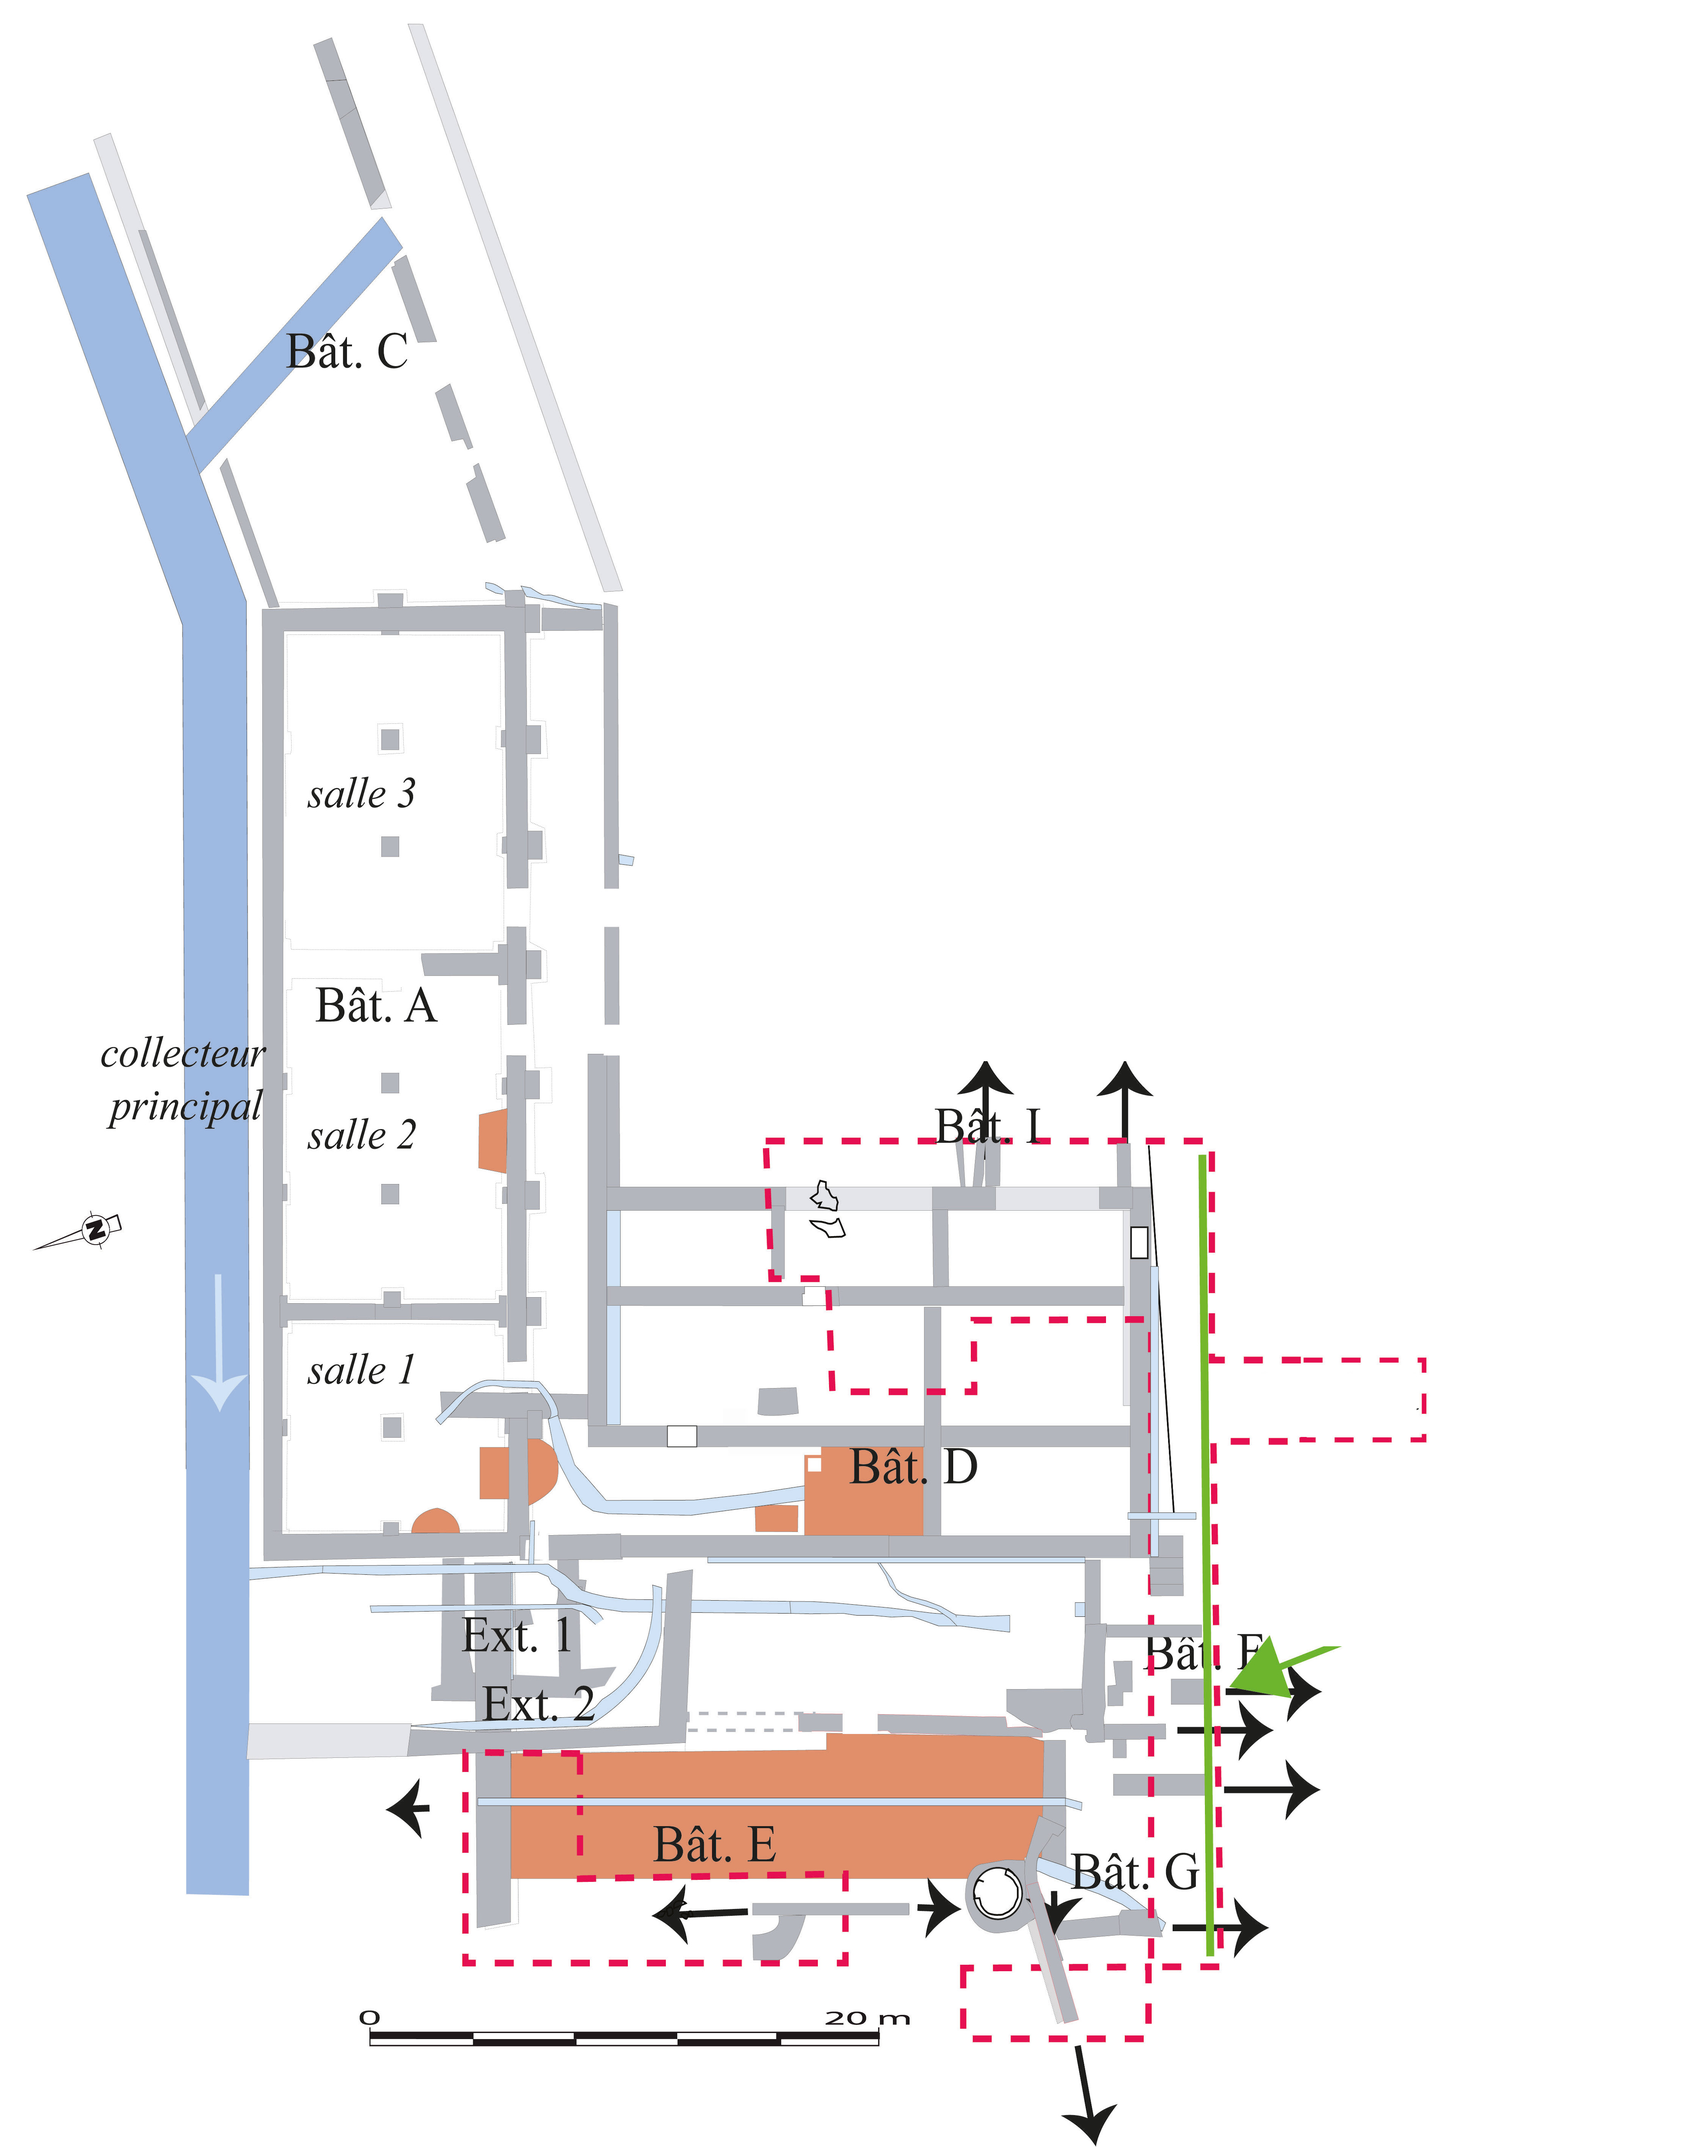
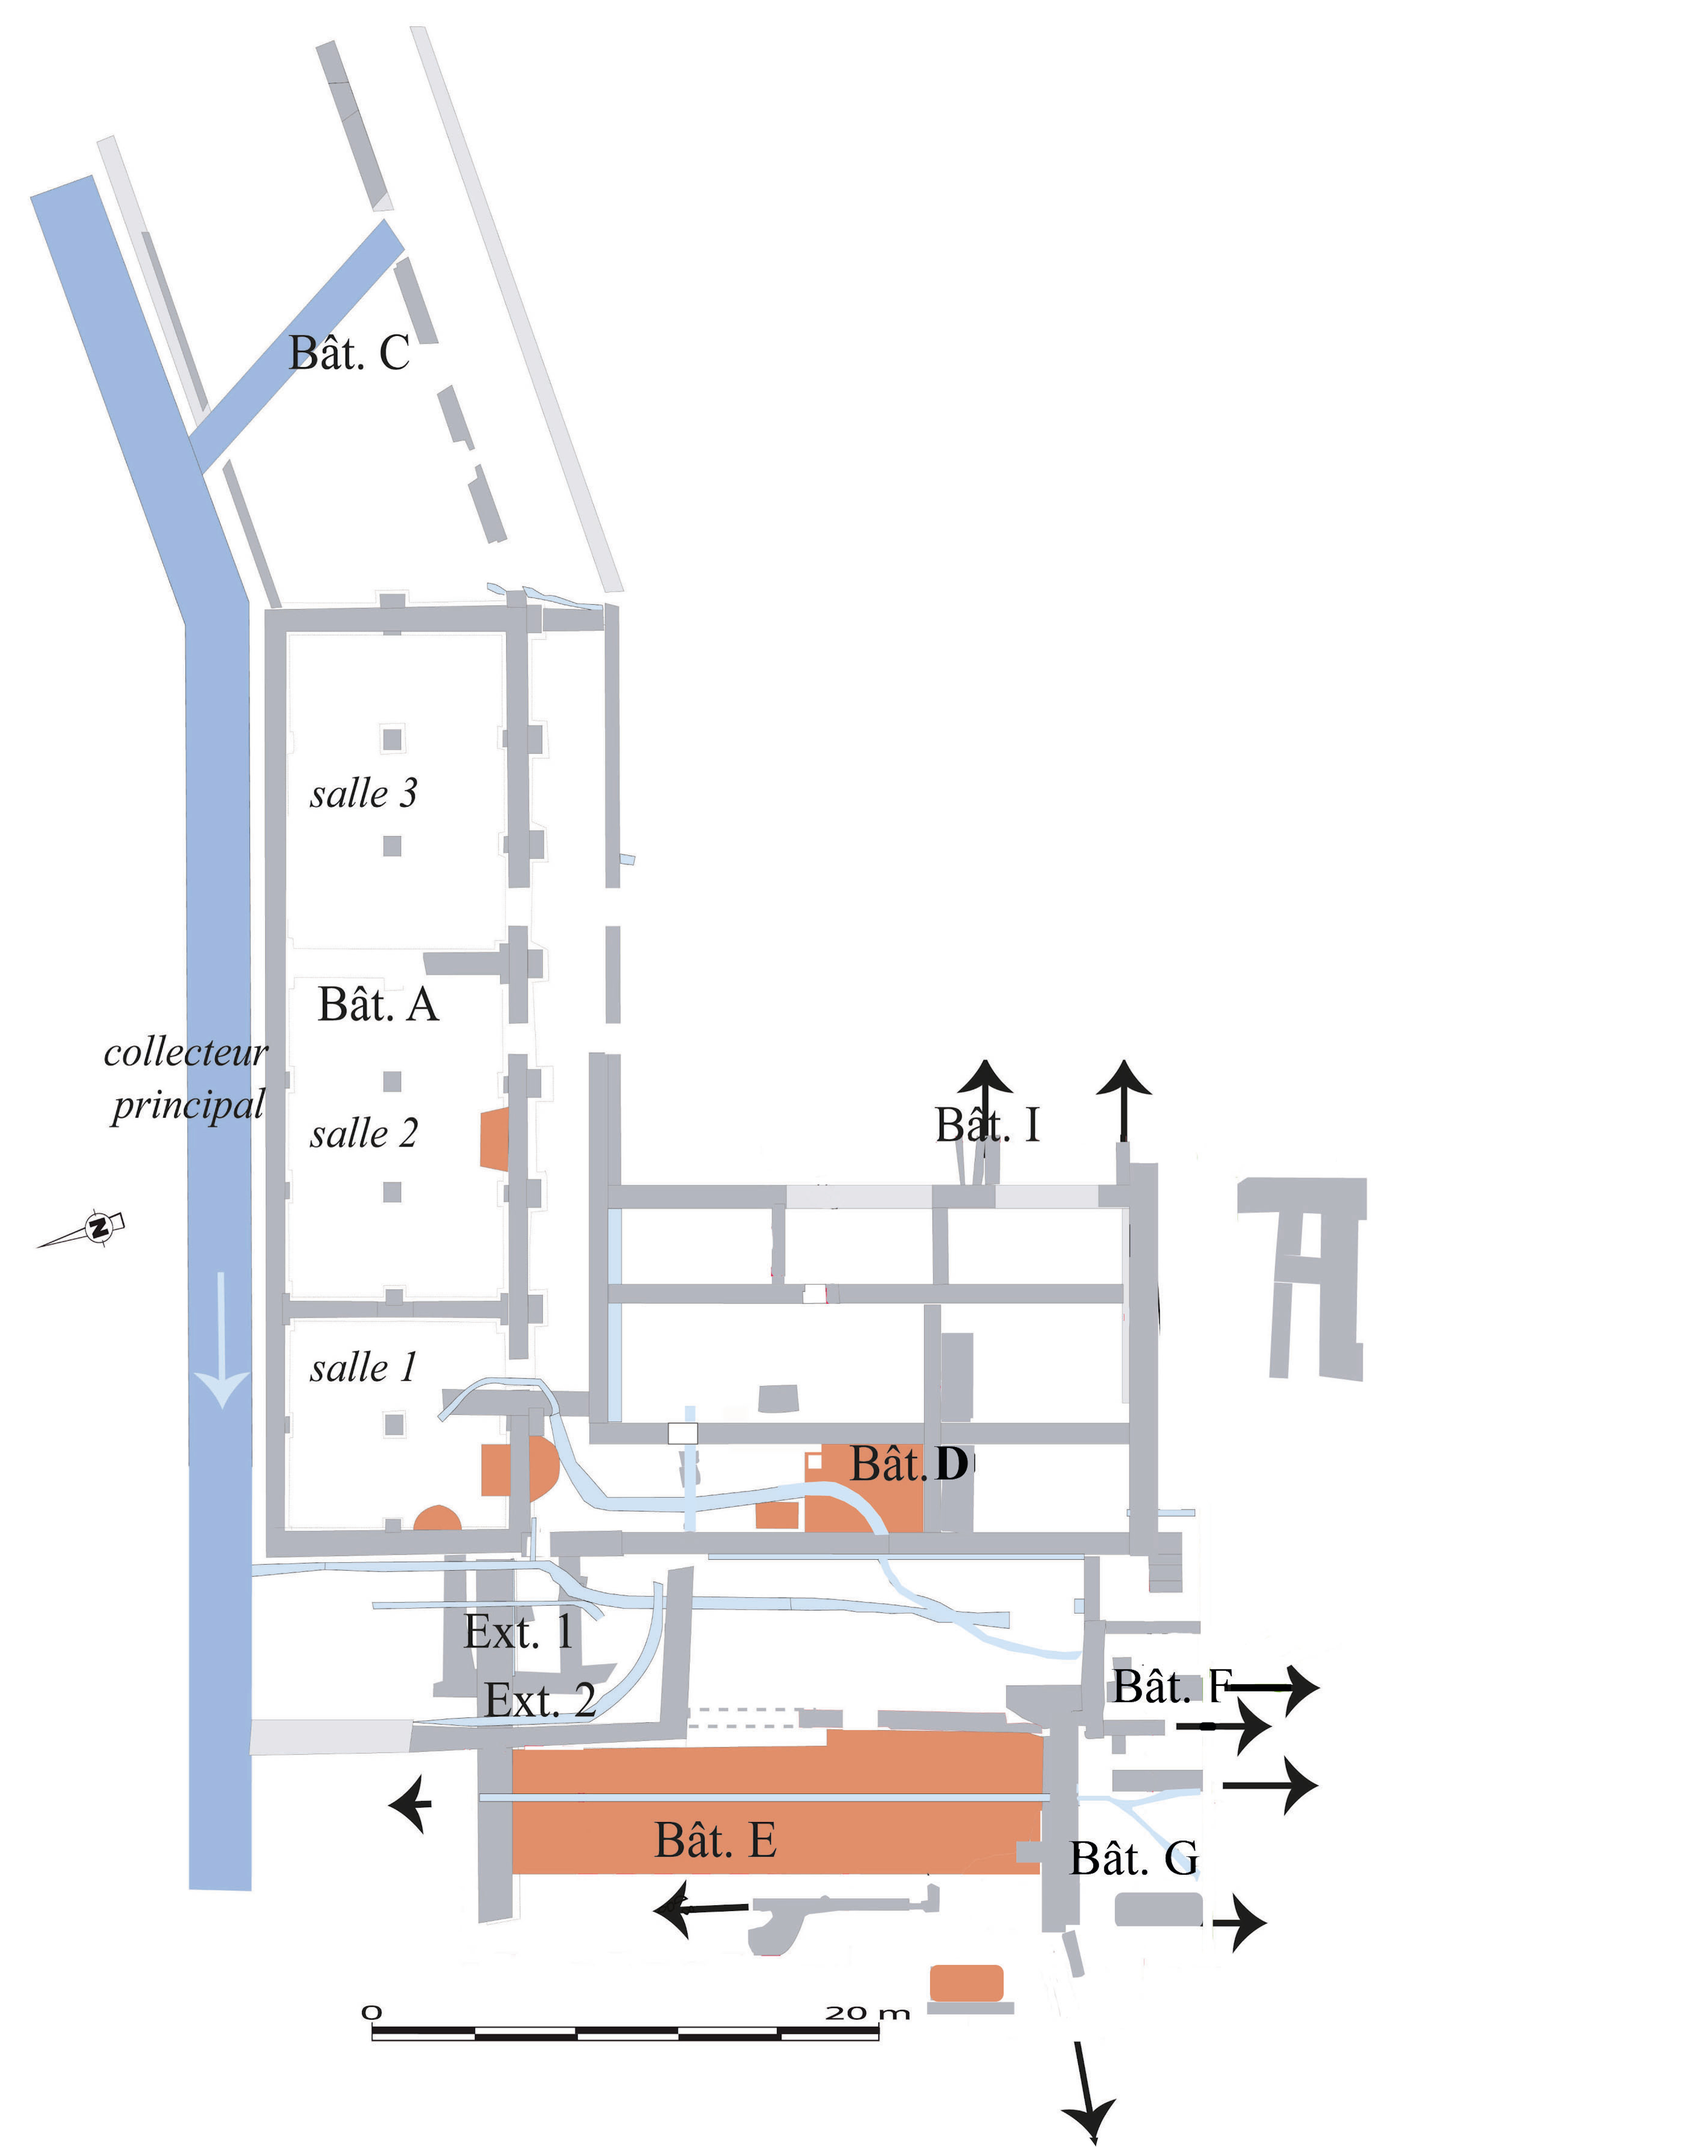
🐛 update map & carroyage

diff --git a/fouilles.js b/fouilles.js
@@ -405,17 +405,15 @@ const displayMap = async (scale) => {
         }
 
         // draw grid
-        xSize = 1;
-        ySize = 1;
-        for (let posY = -10; posY < image.height; posY += 106*ySize) {
+        xSize = 1.1;
+        ySize = 0.99;
+        for (let posY = -50; posY < image.height; posY += 106*ySize) {
             for (let posX = 15; posX < image.width; posX += 106*xSize) {
-                if (y == 26 && mapData.carroyage[y][x] != ".") {
+                if (x == 8) {
                     console.log(`ligne : ${y}`);
-                    xSize = 1.15;
-                    ySize = 1;
+                    xSize = 1.75;
                 } else {
-                    xSize = 1;
-                    ySize = 1;
+                    xSize = 1.1;
                 }
                 ctx.strokeStyle = 'rgb(0, 0, 0)'
                 ctx.strokeRect(posX, posY, 106*xSize, 106*ySize)

diff --git a/main.js b/main.js
@@ -4,7 +4,7 @@ const path = require('path');
 const { app, BrowserWindow, Menu, ipcMain } = electron
 
 // Set environment
-process.env.NODE_ENV = 'production'
+process.env.NODE_ENV = 'debug'
 
 let mainWindow;
 let loadWindow
